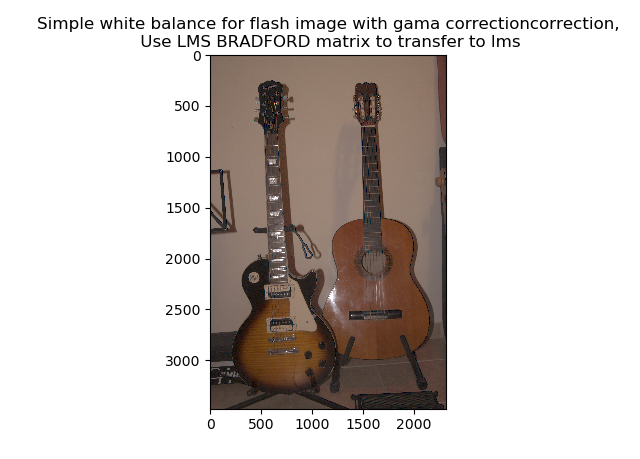
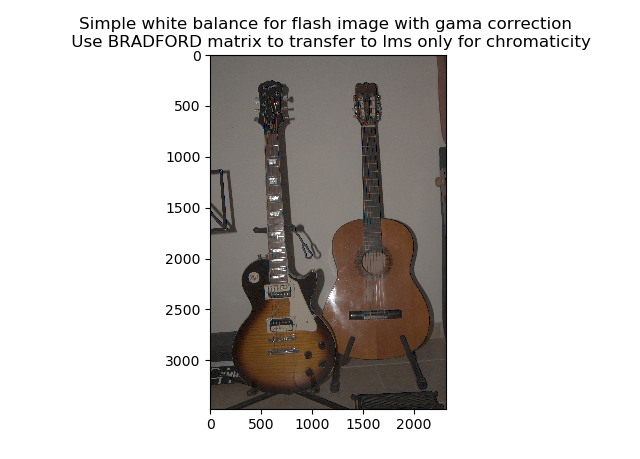
Show result and add result image

Changed region(s): [[0.0625, 0.0305, 0.9688, 0.549], [0.3438, 0.366, 0.375, 0.488], [0.625, 0.488, 0.6562, 0.5185]]

diff --git a/ex1/white_balance.py b/ex1/white_balance.py
@@ -53,17 +53,17 @@ def show_img(img, title=""):
     plt.show()
 
 
-def simple_wb(flash_img, no_flash_img, flash_chromatic, lms_mat):
-    lms_flash_img = rgb2lms(flash_img, lms_mat)
-    lms_no_flash_img = rgb2lms(no_flash_img, lms_mat)
-    delta = lms_flash_img - lms_no_flash_img
-    # flash_chromatic_day = np.array([0.9504, 1.0, 1.0889])[np.newaxis][np.newaxis]
-    # balanced_delta = lms_no_flash_img @ (np.eye(3) * (1 /flash_chromatic_day))
-    balanced_delta = delta @ (np.eye(3) * (1 /flash_chromatic))
-    return lms2rgb(balanced_delta, lms_mat)
+def simple_wb(flash_img, no_flash_img, flash_chromatic, lms_mat, is_flash):
+    if is_flash:
+        delta = flash_img - no_flash_img
+        balanced = delta @ (np.eye(3) * (1 / flash_chromatic))
+    else:
+        flash_chromatic_day = np.array([0.9504, 1.0, 1.0889])[np.newaxis][np.newaxis]
+        balanced = no_flash_img @ (np.eye(3) * (1 /flash_chromatic_day))
+    return balanced
 
 
-def wb(flash_img, no_flash_img, flash_chromatic, lms_mat):
+def wb(flash_img, no_flash_img, flash_chromatic, lms_mat, is_flash):
     # Article addition: divide by c (mean of no_flash_img / delta) instead of
     # directly by flash_chromatic
     if np.any(lms_mat):
@@ -117,23 +117,50 @@ def gamma_corrections(img, gamma):
     return np.power(img, inv_gamma)
 
 
-def main(noflash_path, flash_path, gray_card_path, lms_mat, wb_func=wb):
+def main(noflash_path, flash_path, gray_card_path, lms_mat, transfer_to_lms, is_flash, wb_func=wb):
     no_flash_img = read_tiff(noflash_path)
-    # show_img(no_flash_img / np.max(no_flash_img, axis=(0,1)))
     flash_img = read_tiff(flash_path)
     gray_card_img = read_tiff(gray_card_path)
     points_of_card = 686, 1842, 971, 2324  # for given images
-    flash_cromatic = find_chromaticity_coordinates(gray_card_img, *points_of_card, lms_mat)
-
-    balanced = wb_func(flash_img, no_flash_img, flash_cromatic, lms_mat)
+    flash_chromaticity = find_chromaticity_coordinates(gray_card_img, *points_of_card, lms_mat)
+    if transfer_to_lms:
+        balanced = lms2rgb(wb_func(rgb2lms(flash_img, lms_mat), rgb2lms(no_flash_img, lms_mat),
+                           rgb2lms(flash_chromaticity[np.newaxis][np.newaxis], lms_mat), lms_mat,
+                                   is_flash), lms_mat)
+    else:
+        balanced = wb_func(flash_img, no_flash_img, flash_chromaticity, lms_mat, is_flash)
     return balanced
 
+
+def show_result(algo, is_flash):
+    if is_flash:
+        image_mode = "flash"
+    else:
+        image_mode = "no flash"
+    for tran_matrix in [XYZ2LMS_VON_KRIES, XYZ2LMS_BRADFORD]:
+        if np.all(tran_matrix == XYZ2LMS_VON_KRIES):
+            trar_name = "VON KRIES"
+        else:
+            trar_name = "BRADFORD"
+        for is_transfer_to_lms in [True, False]:
+
+            if is_transfer_to_lms:
+                balanced_img = main(noflash_path, flash_path, gray_card_path, tran_matrix,
+                                    is_transfer_to_lms, is_flash, algo)
+                show_img(gamma_corrections(balanced_img, 2.4), "Simple white balance for "+image_mode+" image "
+                                                               "with gama correction correction\n Use " +trar_name+" matrix to transfer to lms")
+            else:
+                balanced_img = main(noflash_path, flash_path, gray_card_path, tran_matrix,
+                                    is_transfer_to_lms, is_flash, algo)
+                show_img(gamma_corrections(balanced_img, 2.4),
+                         "Simple white balance for "+ image_mode +" image with gama correction \n Use "
+                         +trar_name+" matrix to transfer to lms only for chromaticity")
 
 if __name__ == '__main__':
     noflash_path = 'input-tiff/noflash.tiff'
     flash_path = 'input-tiff/withflash.tiff'
     gray_card_path = 'input-tiff/graycard.tiff'
-
+    show_result(simple_wb, False)
     # simple_balanced = main(noflash_path, flash_path, gray_card_path, wb_func=simple_wb)
     # show_img(simple_balanced, "simple WB")
     #
@@ -145,10 +172,8 @@ if __name__ == '__main__':
     #                     lms_mat=np.eye(3, dtype=np.float))
     # balanced_img = main(noflash_path, flash_path, gray_card_path, wb_func=wb,
     #                     lms_mat=None)
-    balanced_img = main(noflash_path, flash_path, gray_card_path, XYZ2LMS_VON_KRIES, wb_func=simple_wb)
-    show_img(gamma_corrections(balanced_img, 2.4), "Simple white balance for flash image with gama correction"
-                                                   "correction,\n Use LMS VON KRIES matrix to transfer to "
-                                                   "lms")
+
+
     # flash_img = read_tiff(flash_path)
     # show_img(flash_img, "flash image")
     # no_flash_img = read_tiff(noflash_path)
